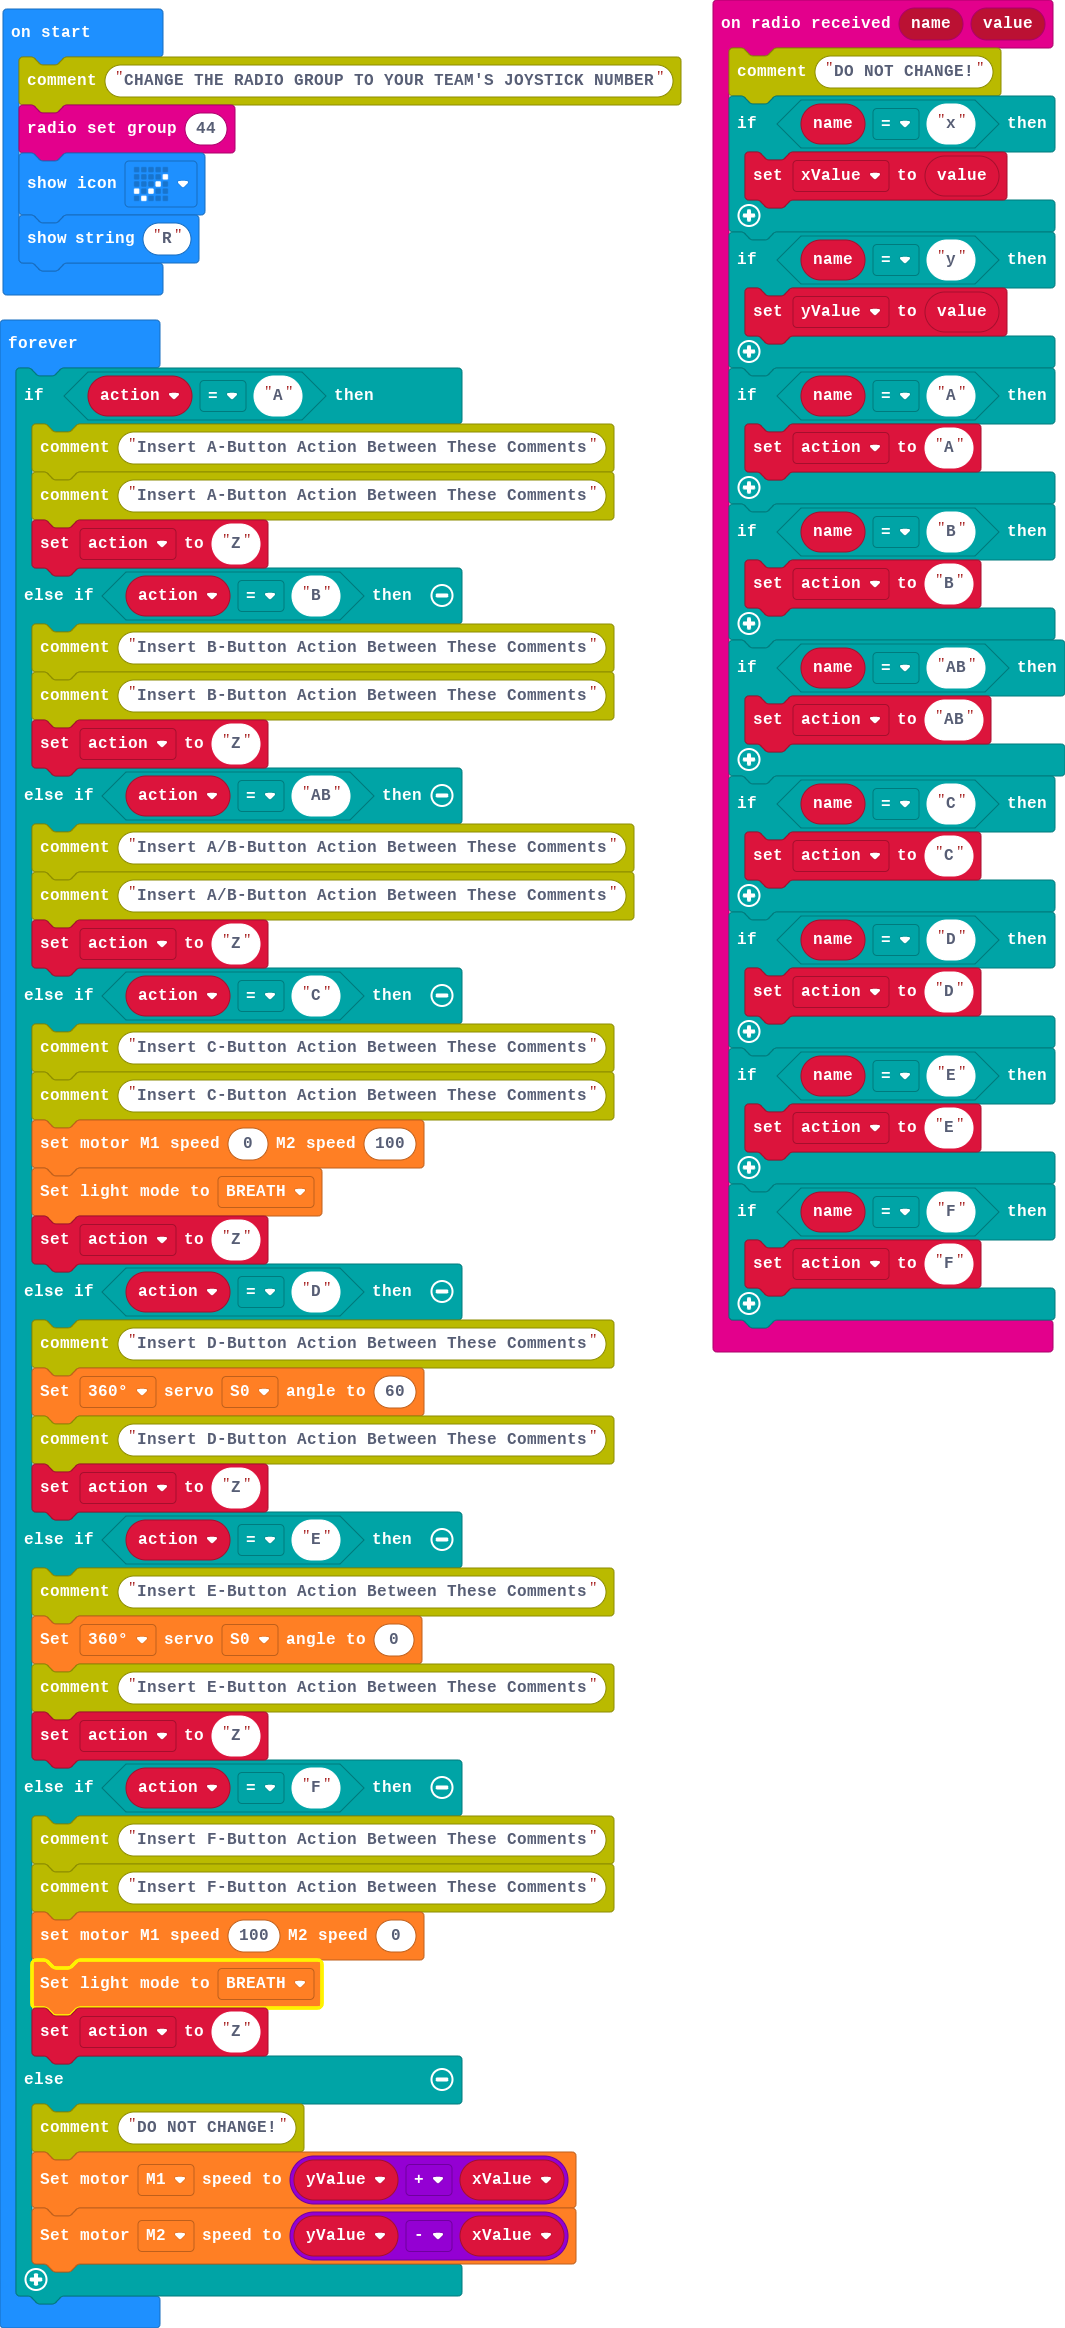
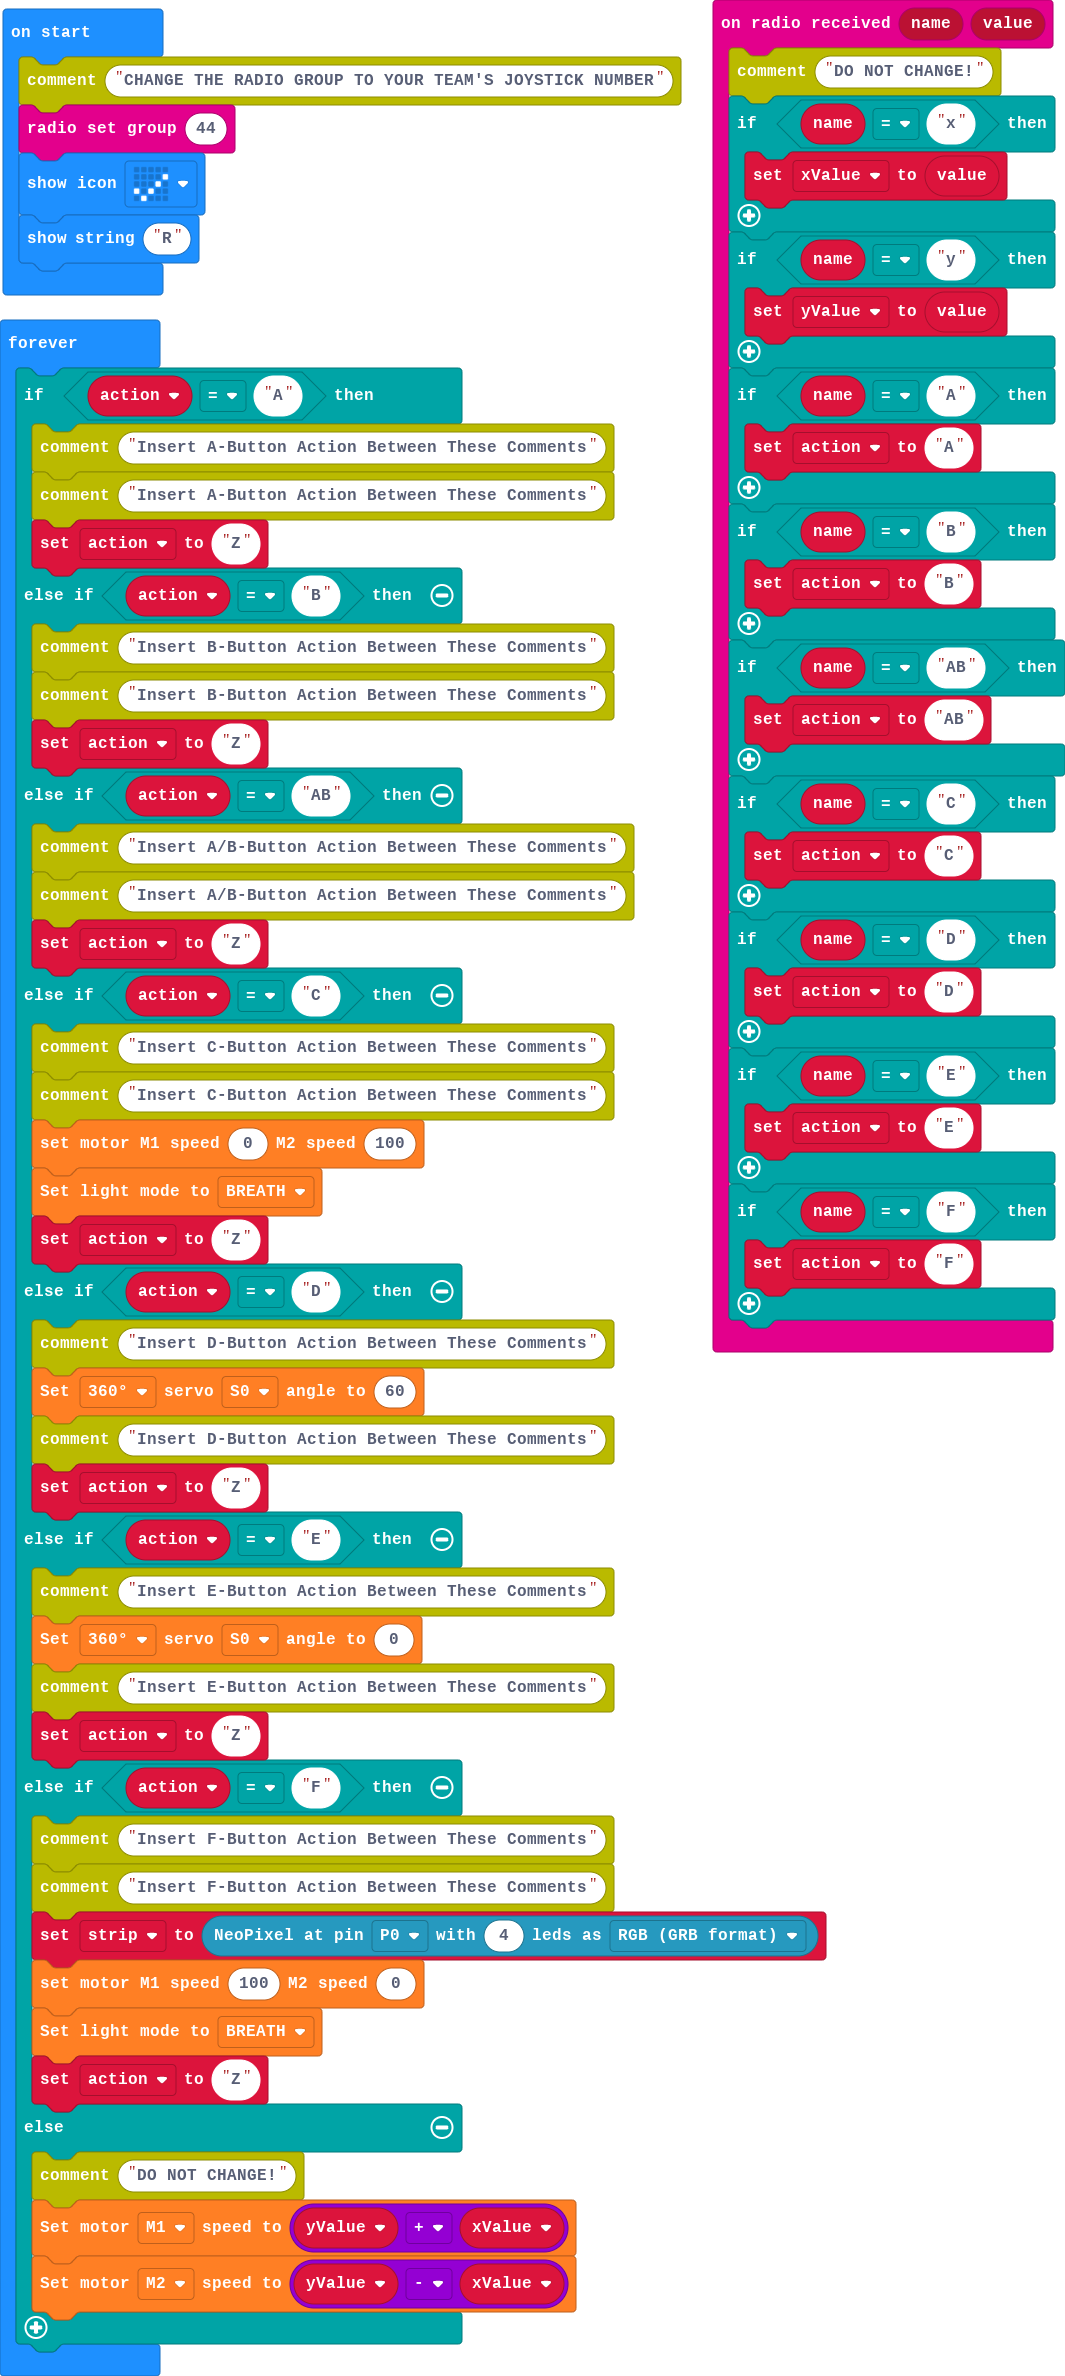
Update main.blocks, main.ts

diff --git a/main.ts b/main.ts
@@ -28,6 +28,7 @@ radio.onReceivedValue(function (name, value) {
         action = "F"
     }
 })
+let strip: neopixel.Strip = null
 let action = ""
 let yValue = 0
 let xValue = 0
@@ -67,6 +68,7 @@ basic.forever(function () {
     } else if (action == "F") {
         comment.comment("Insert F-Button Action Between These Comments")
         comment.comment("Insert F-Button Action Between These Comments")
+        strip = neopixel.create(DigitalPin.P0, 4, NeoPixelMode.RGB)
         wuKong.setAllMotor(100, 0)
         wuKong.setLightMode(wuKong.LightMode.BREATH)
         action = "Z"
